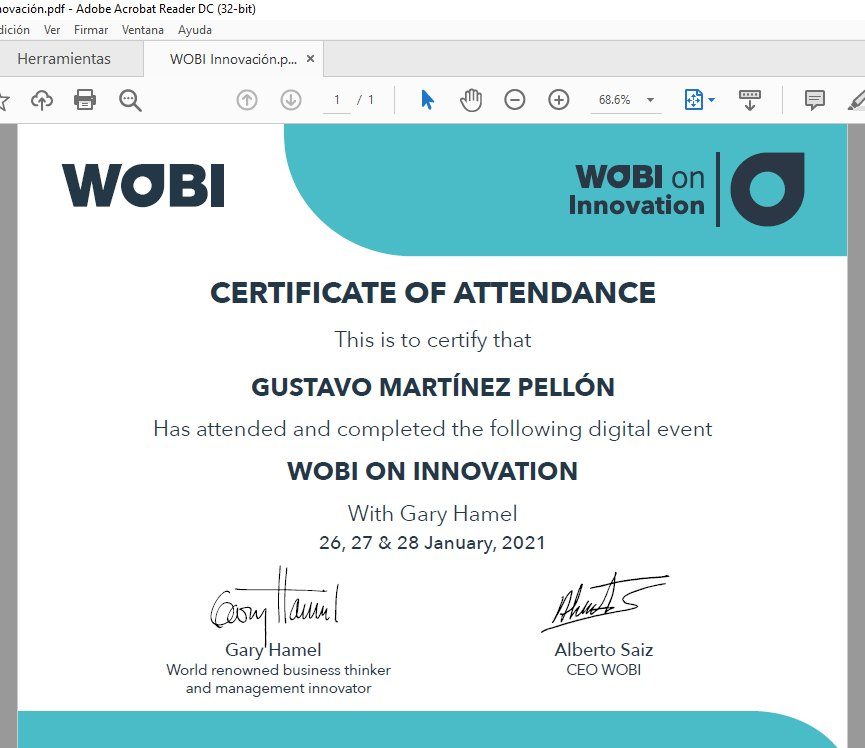
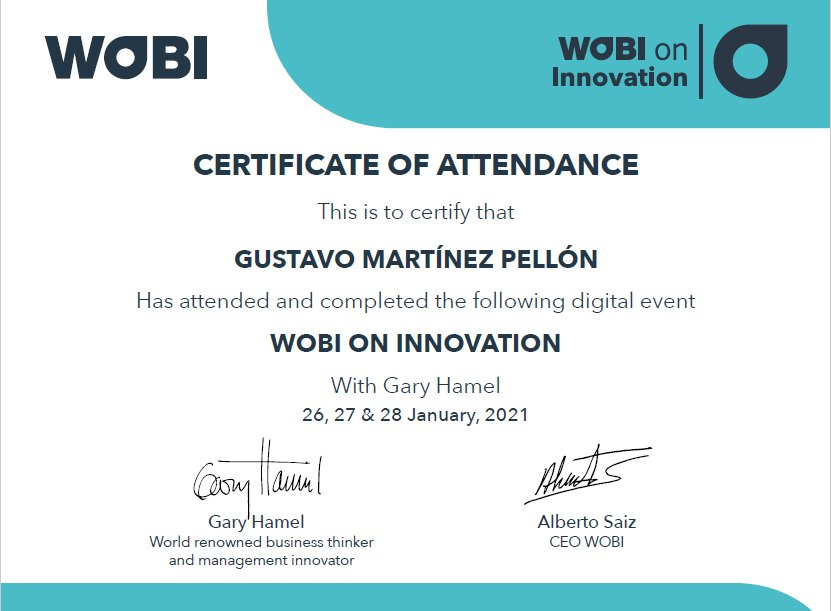
about: limpiar certificados con chrome, separadores de marca, botones fuera del slider y nav por tags
- Re-recorte de los 17 certificados tipo captura: se elimina la barra del
  visor PDF/navegador antes de detectar el documento (sin franja residual).
- Separadores del carrusel de seminarios ahora son paneles de marca con el
  logo real (SEMINARIUM / WOBI) en vez de texto vertical.
- Botones de navegación movidos FUERA del slider (debajo, centrados), con
  estado begin/end; se quitan las flechas superpuestas por defecto.
- Slide activo al centro y vecinos atenuados para que no se vean "cortados".
- Cabecera de cada sección con navegación por tags que salta a su carrusel.
- Cache-bust ?v=3 en las imágenes de certificados.

diff --git a/components/about/CertificateSlider.tsx b/components/about/CertificateSlider.tsx
@@ -2,18 +2,19 @@
 
 import { useCallback, useEffect, useMemo, useState } from 'react';
 import { Swiper, SwiperSlide } from 'swiper/react';
-import { EffectCoverflow, Navigation, Keyboard, Zoom } from 'swiper/modules';
+import type { Swiper as SwiperClass } from 'swiper';
+import { Navigation, Keyboard, Zoom } from 'swiper/modules';
 
 import InstitutionLogos from '@/components/about/InstitutionLogos';
 
 import 'swiper/css';
 import 'swiper/css/navigation';
-import 'swiper/css/effect-coverflow';
 import 'swiper/css/zoom';
 
 type Tag = 'Grado académico' | 'Diplomado' | 'Seminario internacional' | 'Certificación' | 'Coaching' | 'Consejería';
 type Doc = { src: string; title: string; tag: Tag };
-type Row = Doc | { sep: string };
+type Sep = { sep: string; logo?: string };
+type Row = Doc | Sep;
 
 const D = (src: string, title: string, tag: Tag): Doc => ({ src, title, tag });
 
@@ -67,8 +68,8 @@ const COACHING: Doc[] = [
 const CONSEJERIA: Doc[] = [D('consejeria-cncpie', 'Consejero Profesional Independiente', 'Consejería')];
 
 const SEMINARIOS: Row[] = [
-  { sep: 'SEMINARIUM' }, ...SEMINARIUM,
-  { sep: 'WOBI' }, ...WOBI,
+  { sep: 'Seminarium', logo: 'seminarium' }, ...SEMINARIUM,
+  { sep: 'WOBI', logo: 'wobi' }, ...WOBI,
   { sep: 'Otros programas' }, ...OTROS,
 ];
 
@@ -84,8 +85,11 @@ const TAG_STYLE: Record<Tag, { text: string; tint: string; dot: string }> = {
   Consejería: { text: '#3E5871', tint: 'rgba(91,123,154,0.16)', dot: '#5B7B9A' },
 };
 
-const url = (src: string) => `/assets/certificados/${src}.jpg`;
-const isSep = (r: Row): r is { sep: string } => 'sep' in r;
+const V = '3'; // cache-bust tras re-recorte de certificados
+const url = (src: string) => `/assets/certificados/${src}.jpg?v=${V}`;
+const isSep = (r: Row): r is Sep => 'sep' in r;
+
+type NavItem = { label: string; tag: Tag; target: string };
 
 function TagBadge({ tag }: { tag: Tag }) {
   const s = TAG_STYLE[tag];
@@ -100,15 +104,35 @@ function TagBadge({ tag }: { tag: Tag }) {
   );
 }
 
+/** Navegación de la cabecera: chips por tag que saltan a cada carrusel. */
+function SectionNav({ items }: { items: NavItem[] }) {
+  const go = (id: string) => document.getElementById(id)?.scrollIntoView({ behavior: 'smooth', block: 'start' });
+  return (
+    <div className="secnav">
+      {items.map((it) => {
+        const s = TAG_STYLE[it.tag];
+        return (
+          <button key={it.target} type="button" onClick={() => go(it.target)} className="secnav-chip font-sans" style={{ color: s.text, backgroundColor: s.tint }}>
+            <span style={{ width: '6px', height: '6px', borderRadius: '50%', backgroundColor: s.dot }} />
+            {it.label}
+          </button>
+        );
+      })}
+    </div>
+  );
+}
+
 /** Marco negro con bisel plateado, pegado a los bordes reales de la imagen. */
 function FramedSlide({ doc, onOpen }: { doc: Doc; onOpen: (src: string) => void }) {
   return (
     <button type="button" onClick={() => onOpen(doc.src)} aria-label={`Ampliar: ${doc.title}`} className="fslide">
-      <span className="bframe">
-        <span className="bevel">
-          <span className="blackmat">
-            {/* eslint-disable-next-line @next/next/no-img-element */}
-            <img src={url(doc.src)} alt={doc.title} loading="lazy" />
+      <span className="fimg">
+        <span className="bframe">
+          <span className="bevel">
+            <span className="blackmat">
+              {/* eslint-disable-next-line @next/next/no-img-element */}
+              <img src={url(doc.src)} alt={doc.title} loading="lazy" />
+            </span>
           </span>
         </span>
       </span>
@@ -122,38 +146,47 @@ function FramedSlide({ doc, onOpen }: { doc: Doc; onOpen: (src: string) => void 
   );
 }
 
-function Separator({ label }: { label: string }) {
+/** Panel-separador de marca (logo real) que divide los grupos dentro del carrusel. */
+function SepPanel({ sep }: { sep: Sep }) {
   return (
-    <span className="sep">
-      <span className="sep-line" />
-      <span className="font-serif sep-txt">{label}</span>
-      <span className="sep-line" />
+    <span className="seppanel">
+      {sep.logo ? (
+        // eslint-disable-next-line @next/next/no-img-element
+        <img src={`/assets/credenciales/${sep.logo}.png`} alt={sep.sep} className="seplogo" />
+      ) : (
+        <span className="sepbig font-serif">{sep.sep}</span>
+      )}
+      <span className="sepcap font-sans">{sep.logo ? 'Programas' : 'Escuelas de negocio'}</span>
     </span>
   );
 }
 
-function Carousel({ title, rows, onOpen }: { title: string; rows: Row[]; onOpen: (src: string) => void }) {
+function Carousel({ id, title, rows, onOpen }: { id: string; title: string; rows: Row[]; onOpen: (src: string) => void }) {
+  const [sw, setSw] = useState<SwiperClass | null>(null);
+  const [pos, setPos] = useState({ beg: true, end: false });
+  const upd = (s: SwiperClass) => setPos({ beg: s.isBeginning, end: s.isEnd });
+  const canNav = rows.length > 1;
+
   return (
-    <div style={{ marginBottom: '72px' }}>
-      <h3 className="font-serif" style={{ fontSize: 'clamp(20px, 2.2vw, 26px)', fontWeight: 700, color: '#243A4D', textAlign: 'center', marginBottom: '32px' }}>
+    <div id={id} style={{ marginBottom: '84px', scrollMarginTop: '96px' }}>
+      <h3 className="font-serif" style={{ fontSize: 'clamp(20px, 2.2vw, 26px)', fontWeight: 700, color: '#243A4D', textAlign: 'center', marginBottom: '30px' }}>
         {title}
       </h3>
       <Swiper
-        modules={[EffectCoverflow, Navigation, Keyboard]}
-        effect="coverflow"
+        modules={[Keyboard]}
+        onSwiper={(s) => { setSw(s); upd(s); }}
+        onSlideChange={upd}
         centeredSlides
         slidesPerView="auto"
-        spaceBetween={28}
+        spaceBetween={40}
         grabCursor
         keyboard={{ enabled: true }}
-        navigation
-        coverflowEffect={{ rotate: 0, stretch: 0, depth: 110, modifier: 2, slideShadows: false }}
-        style={{ padding: '10px 0' }}
+        className="credsw"
       >
         {rows.map((r, i) =>
           isSep(r) ? (
             <SwiperSlide key={`sep-${i}`} style={{ width: 'auto' }}>
-              <Separator label={r.sep} />
+              <SepPanel sep={r} />
             </SwiperSlide>
           ) : (
             <SwiperSlide key={r.src} style={{ width: 'auto' }}>
@@ -162,6 +195,12 @@ function Carousel({ title, rows, onOpen }: { title: string; rows: Row[]; onOpen:
           )
         )}
       </Swiper>
+      {canNav && (
+        <div className="creds-nav">
+          <button type="button" onClick={() => sw?.slidePrev()} disabled={pos.beg} aria-label="Anterior">‹</button>
+          <button type="button" onClick={() => sw?.slideNext()} disabled={pos.end} aria-label="Siguiente">›</button>
+        </div>
+      )}
     </div>
   );
 }
@@ -187,29 +226,43 @@ export default function CertificateSlider() {
     <div className="cred">
       <section style={{ backgroundColor: '#F5F5F5', paddingTop: '100px', paddingBottom: '100px' }}>
         <div className="max-w-[1200px] mx-auto px-5 md:px-8">
-          <div style={{ textAlign: 'center', marginBottom: '64px' }}>
+          <div style={{ textAlign: 'center', marginBottom: '56px' }}>
             <span className="font-sans font-semibold" style={{ fontSize: '12px', color: '#6A8F7B', letterSpacing: '0.08em', textTransform: 'uppercase' }}>Trayectoria personal</span>
             <h2 className="font-serif font-bold" style={{ fontSize: 'clamp(30px, 3.4vw, 44px)', color: '#243A4D', marginTop: '16px', lineHeight: 1.2 }}>Estudios</h2>
             <p className="font-sans" style={{ fontSize: '16px', color: '#6B7280', lineHeight: 1.7, maxWidth: '640px', margin: '18px auto 0' }}>
               Formación continua durante más de tres décadas en las principales escuelas de negocio del mundo.
             </p>
+            <SectionNav
+              items={[
+                { label: 'Formación académica', tag: 'Grado académico', target: 'c-academico' },
+                { label: 'Diplomados', tag: 'Diplomado', target: 'c-diplomados' },
+                { label: 'Seminarios internacionales', tag: 'Seminario internacional', target: 'c-seminarios' },
+              ]}
+            />
           </div>
-          <Carousel title="Formación académica" rows={ACADEMICO} onOpen={setOpenSrc} />
-          <Carousel title="Diplomados" rows={DIPLOMADOS} onOpen={setOpenSrc} />
-          <Carousel title="Seminarios internacionales" rows={SEMINARIOS} onOpen={setOpenSrc} />
+          <Carousel id="c-academico" title="Formación académica" rows={ACADEMICO} onOpen={setOpenSrc} />
+          <Carousel id="c-diplomados" title="Diplomados" rows={DIPLOMADOS} onOpen={setOpenSrc} />
+          <Carousel id="c-seminarios" title="Seminarios internacionales" rows={SEMINARIOS} onOpen={setOpenSrc} />
           <InstitutionLogos />
         </div>
       </section>
 
       <section style={{ backgroundColor: '#ffffff', paddingTop: '100px', paddingBottom: '100px' }}>
         <div className="max-w-[1200px] mx-auto px-5 md:px-8">
-          <div style={{ textAlign: 'center', marginBottom: '64px' }}>
+          <div style={{ textAlign: 'center', marginBottom: '56px' }}>
             <span className="font-sans font-semibold" style={{ fontSize: '12px', color: '#6A8F7B', letterSpacing: '0.08em', textTransform: 'uppercase' }}>Acreditaciones profesionales</span>
             <h2 className="font-serif font-bold" style={{ fontSize: 'clamp(30px, 3.4vw, 44px)', color: '#243A4D', marginTop: '16px', lineHeight: 1.2 }}>Certificaciones</h2>
+            <SectionNav
+              items={[
+                { label: 'Profesionales', tag: 'Certificación', target: 'c-certprof' },
+                { label: 'Coaching', tag: 'Coaching', target: 'c-coaching' },
+                { label: 'Consejería', tag: 'Consejería', target: 'c-consejeria' },
+              ]}
+            />
           </div>
-          <Carousel title="Certificaciones profesionales" rows={CERT_PROF} onOpen={setOpenSrc} />
-          <Carousel title="Coaching" rows={COACHING} onOpen={setOpenSrc} />
-          <Carousel title="Consejería" rows={CONSEJERIA} onOpen={setOpenSrc} />
+          <Carousel id="c-certprof" title="Certificaciones profesionales" rows={CERT_PROF} onOpen={setOpenSrc} />
+          <Carousel id="c-coaching" title="Coaching" rows={COACHING} onOpen={setOpenSrc} />
+          <Carousel id="c-consejeria" title="Consejería" rows={CONSEJERIA} onOpen={setOpenSrc} />
         </div>
       </section>
 
@@ -234,7 +287,20 @@ export default function CertificateSlider() {
       )}
 
       <style jsx global>{`
+        /* ---- Cabecera: navegación por tags ---- */
+        .cred .secnav { display:flex; flex-wrap:wrap; gap:10px; justify-content:center; margin-top:30px; }
+        .cred .secnav-chip { display:inline-flex; align-items:center; gap:7px; font-size:12px; font-weight:600;
+          letter-spacing:.02em; padding:8px 16px; border-radius:100px; border:none; cursor:pointer;
+          transition:transform .15s ease, box-shadow .2s ease; }
+        .cred .secnav-chip:hover { transform:translateY(-1px); box-shadow:0 8px 18px -8px rgba(36,58,77,.35); }
+
+        /* ---- Slider: foco al centro, vecinos atenuados (no “cortados”) ---- */
+        .cred .credsw { padding:16px 0 4px; overflow:hidden; }
+        .cred .credsw .swiper-slide { transition:opacity .35s ease, transform .35s ease; opacity:.4; transform:scale(.88); }
+        .cred .credsw .swiper-slide-active, .cred .credsw .swiper-slide-duplicate-active { opacity:1; transform:scale(1); }
+
         .cred .fslide { display:block; border:none; padding:0; background:none; cursor:zoom-in; }
+        .cred .fimg { display:flex; align-items:flex-end; justify-content:center; height:356px; }
         /* Marco pegado a la imagen: alto fijo, ancho según la proporción real del certificado */
         .cred .bframe { display:inline-block; padding:16px; border-radius:2px;
           background:linear-gradient(160deg,#2c2c2c,#0b0b0b 62%);
@@ -244,19 +310,32 @@ export default function CertificateSlider() {
           box-shadow: inset 0 1px 2px rgba(255,255,255,.7); }
         .cred .blackmat { display:block; padding:12px; background:#0a0a0a; box-shadow: inset 0 2px 7px rgba(0,0,0,.75); }
         .cred .blackmat img { display:block; height:290px; width:auto; box-shadow:0 1px 4px rgba(0,0,0,.5); }
-        .cred .sep { display:flex; flex-direction:column; align-items:center; justify-content:center; gap:16px; height:322px; width:96px; }
-        .cred .sep-line { width:1.5px; flex:1; background:linear-gradient(#C9A84C, rgba(201,168,76,0)); }
-        .cred .sep-line:last-child { background:linear-gradient(rgba(201,168,76,0), #C9A84C); }
-        .cred .sep-txt { writing-mode:vertical-rl; text-orientation:mixed; transform:rotate(180deg); font-size:15px; font-weight:700; letter-spacing:3px; text-transform:uppercase; color:#8A6D1F; }
-        .cred .swiper-button-next, .cred .swiper-button-prev {
-          width:40px; height:40px; border-radius:50%; color:#243A4D;
-          background:rgba(255,255,255,.92); border:1px solid rgba(36,58,77,.14);
-          box-shadow:0 4px 14px rgba(36,58,77,.10); backdrop-filter:blur(3px);
+
+        /* ---- Panel-separador de marca ---- */
+        .cred .seppanel { display:flex; flex-direction:column; align-items:center; justify-content:center; gap:18px;
+          width:220px; height:356px; border-radius:12px; position:relative;
+          background:linear-gradient(180deg,#ffffff,#fbfaf7);
+          border:1px solid rgba(36,58,77,.08); box-shadow:0 14px 34px -20px rgba(36,58,77,.5); }
+        .cred .seppanel::before, .cred .seppanel::after { content:''; position:absolute; left:50%;
+          transform:translateX(-50%); width:36px; height:2px; background:#C9A84C; border-radius:2px; }
+        .cred .seppanel::before { top:30px; } .cred .seppanel::after { bottom:30px; }
+        .cred .seplogo { max-width:158px; max-height:76px; width:auto; height:auto; object-fit:contain; }
+        .cred .sepbig { font-size:24px; font-weight:700; color:#243A4D; text-align:center; line-height:1.25; padding:0 20px; }
+        .cred .sepcap { font-size:11px; letter-spacing:.15em; text-transform:uppercase; color:#8A6D1F; font-weight:600; }
+
+        /* ---- Botones fuera del slider, debajo y centrados ---- */
+        .cred .creds-nav { display:flex; justify-content:center; gap:14px; margin-top:24px; }
+        .cred .creds-nav button { width:46px; height:46px; border-radius:50%; font-size:22px; line-height:1;
+          color:#243A4D; background:#fff; border:1px solid rgba(36,58,77,.16);
+          box-shadow:0 4px 14px rgba(36,58,77,.10); cursor:pointer; padding-bottom:3px;
+          display:flex; align-items:center; justify-content:center;
           transition:background .2s ease, color .2s ease, border-color .2s ease, transform .2s ease; }
-        .cred .swiper-button-next:hover, .cred .swiper-button-prev:hover {
-          background:#243A4D; color:#fff; border-color:#243A4D; transform:scale(1.06); }
-        .cred .swiper-button-next::after, .cred .swiper-button-prev::after { font-size:12px; font-weight:800; }
-        .cred .swiper-button-disabled { opacity:0; pointer-events:none; }
+        .cred .creds-nav button:hover:not(:disabled) { background:#243A4D; color:#fff; border-color:#243A4D; transform:scale(1.06); }
+        .cred .creds-nav button:disabled { opacity:.28; cursor:default; }
+
+        /* ---- Lightbox: flechas nativas discretas ---- */
+        .cred .swiper-button-next, .cred .swiper-button-prev { color:rgba(255,255,255,.85); }
+        .cred .swiper-button-next::after, .cred .swiper-button-prev::after { font-size:26px; font-weight:700; }
       `}</style>
     </div>
   );
